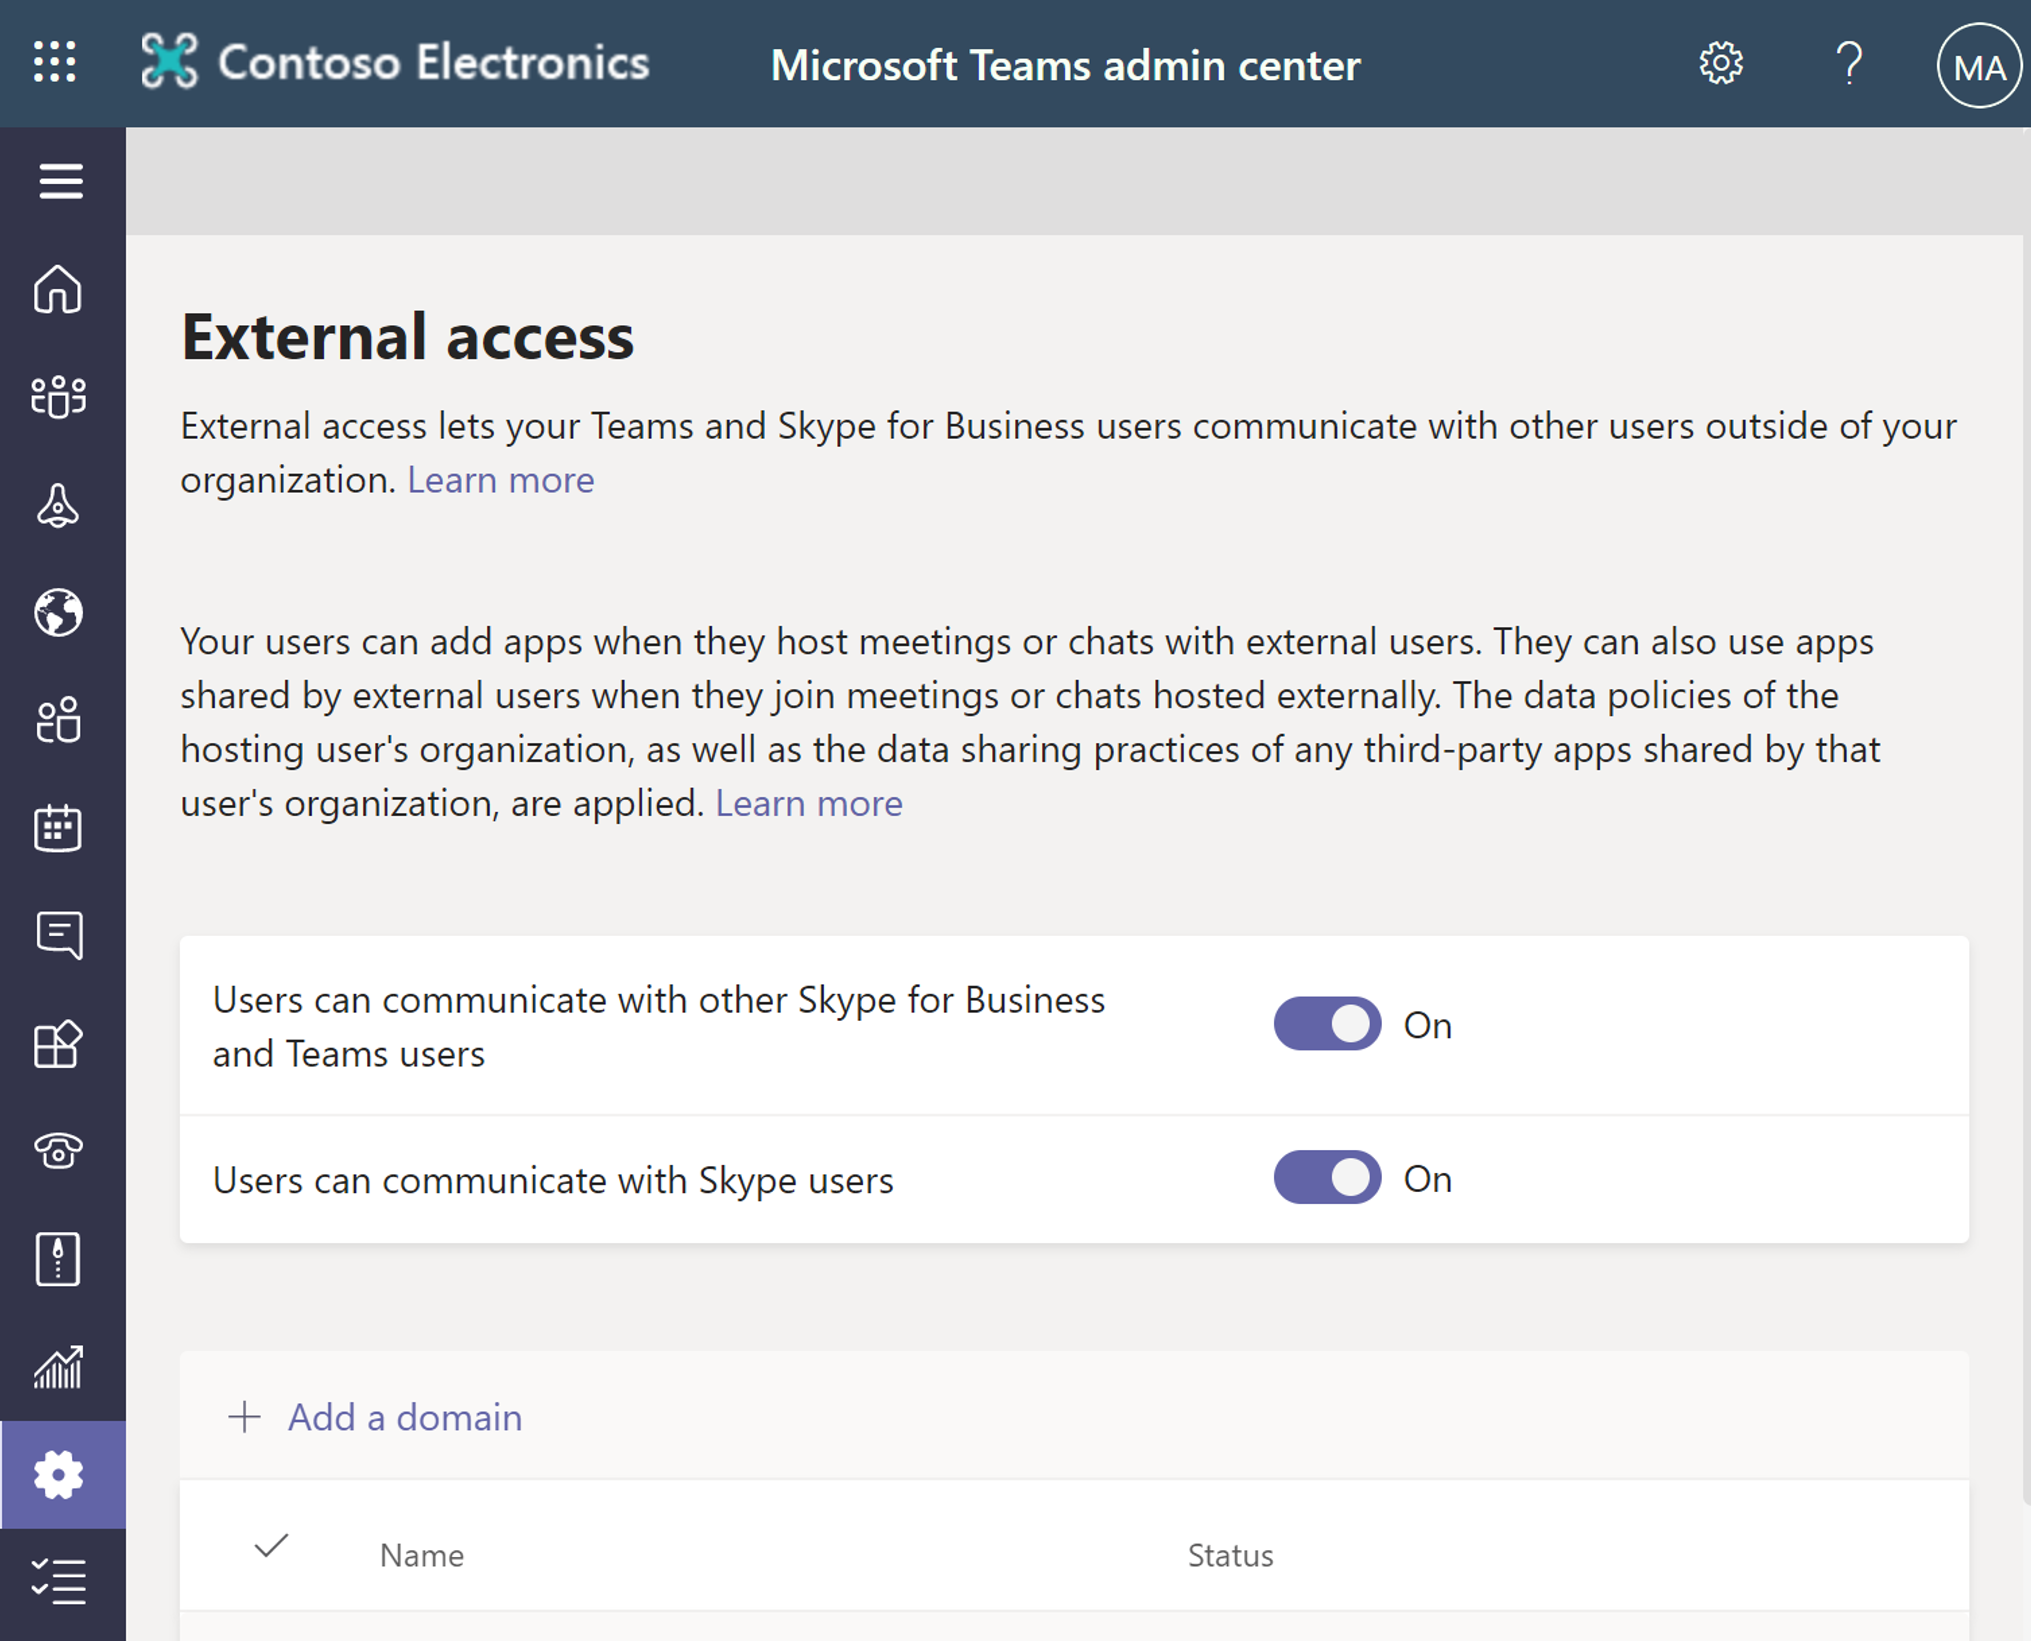
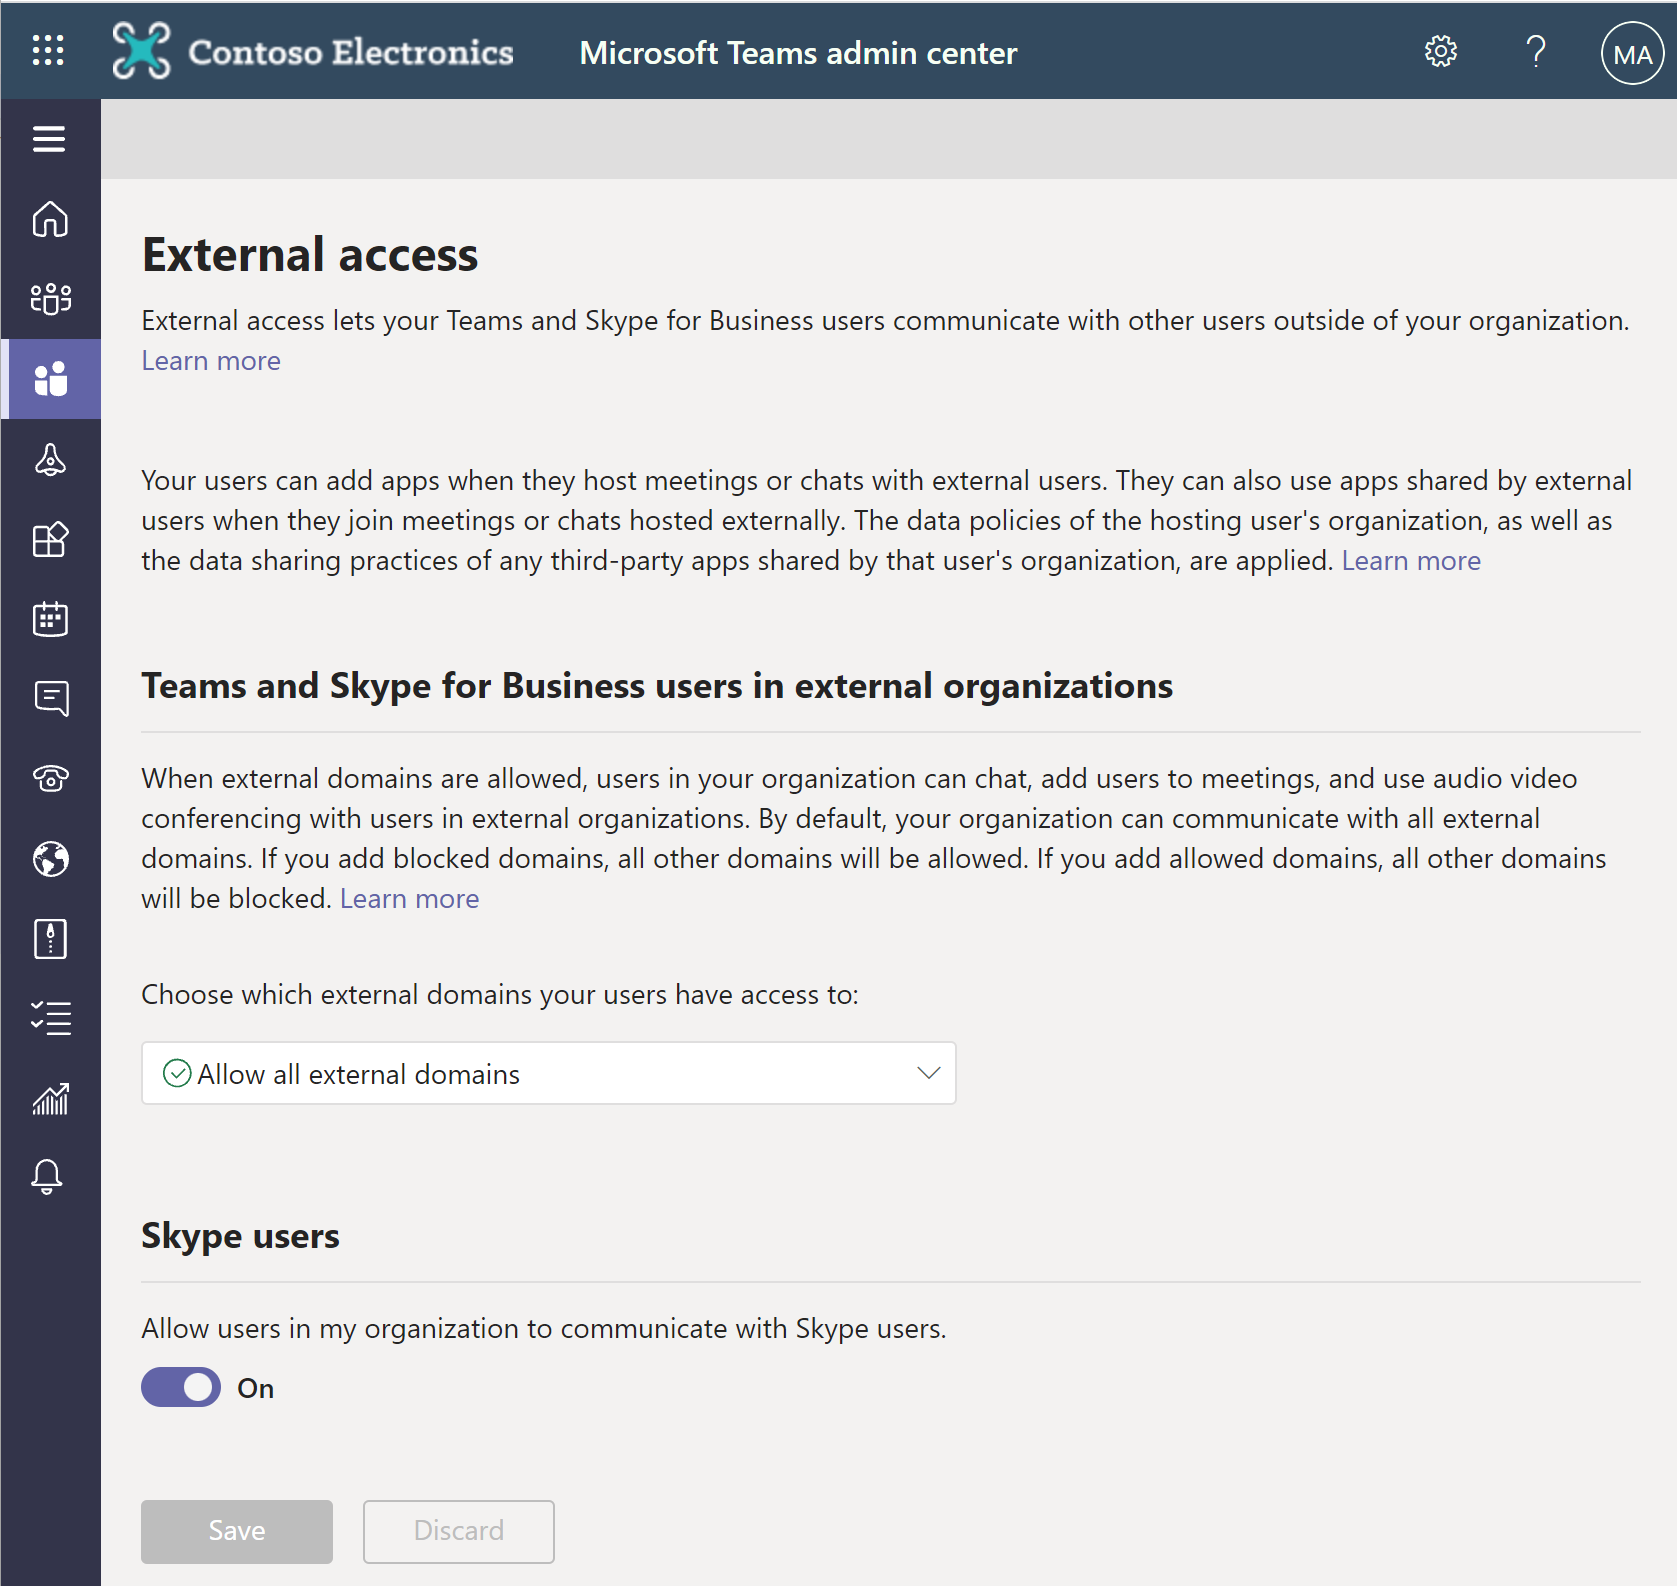
changed files by pdets auto publish service, publishid[32bfe250-0398-41aa-b839-74f31107bfcf] and do [publish].

diff --git a/learn-m365-pr/wwl/manage-access-for-external-users/includes/07-manage-external-access-microsoft-teams.md b/learn-m365-pr/wwl/manage-access-for-external-users/includes/07-manage-external-access-microsoft-teams.md
@@ -1,32 +1,42 @@
 External access is a way for Teams users from an entire external domain to find, call, chat, and set up meetings with you in Teams. You can also use external access to communicate with people from other organizations who are still using Skype for Business and Skype.
 
-Configuring external access for organizations includes three scenarios for setting it up:
+Configuring external access for organizations includes:
 
-- **Open federation**: This setting is the default setting in Teams. The setting lets people in your organization find, call, chat, and set up meetings with people external to your organization in any domain.
+- **Allow all external domains**: This is the default setting in Teams, and it lets people in your organization find, call, chat, and set up meetings with people external to your organization in any domain.
 
-    Users can communicate with all external domains that are running Teams or Skype for Business AND are using open federation OR have added your domain to their allowlist.
+    In this scenario, your users can communicate with all external domains that are running Teams or Skype for Business or are allowing all external domains or have added your domain to their allow list.
 
-- **Allow specific domains**: By adding domains to an **Allow** list, you limit external access to only the allowed domains. Once you set up a list of allowed domains, all other domains will be blocked. To allow specific domains, select **Add a domain**, add the domain name, select **Action to take on this domain**, and then select **Allowed**.
+- **Allow only specific external domains**: By adding domains to an **Allow** list, you limit external access to only the allowed domains. Once you set up a list of allowed domains, all other domains will be blocked. 
 
-- **Block specific domains**: By adding domains to a **Block** list, you can communicate with all external domains *except* the ones you've blocked. To block specific domains, select **Add a domain**, add the domain name, select **Action to take on this domain**, and then select **Blocked**. Once you set up a list of blocked domains, all other domains will be allowed.
+- **Block specific domains** - By adding domains to a **Block** list, you can communicate with all external domains *except* the ones you've blocked. 
+
+- **Block all external domains** - Prevents people in your organization from finding, calling, chatting, and setting up meetings with people external to your organization in any domain.
 
 ## Configure external access
 
-1. In the left navigation pane, go to **Org-wide settings** > **External access**.
+1. In the left navigation pane, go to **Users** > **External access**.
 
-2. Turn on the **Users can communicate with other Skype for Business and Teams users** setting.
+2. Under **Choose which domains your users have access to** section, configure the setting based on business need. 
 
-3. If you want to allow all Teams organizations to communicate with users in your organization, skip to step 5.
+    **To allow specific domains**:
+    
+    1. Select **Allow only specific external domains**.
+    2. Select **Allow domains**.
+    3. In the **Domain** box, type the domain that you want to allow and then select **Done**.
+    4. If you want to allow another domain, select **Add a domain**.
 
-4. If you want to limit the organizations that can communicate with users in your organization, you can either allow all except some domains, or you can allow only specific domains.
+    **To block specific domains**:
+    
+    1. Select **Block only specific external domains**.
+    2. Select **Block domains**.
+    3. In the **Domain** box, type the domain that you want to allow and then select **Done**.
+    4. If you want to block another domain, select **Add a domain**.
 
-    - To allow all except some domains, add the domains you want to block by selecting **Add domain**. In the **Add a domain** pane, type the domain name, select **Blocked**, and then select **Done**.
+3. Turn on the **Allow users in my organization to communicate with Skype users** setting if you want to allow Teams users in your organization chat with and call Skype users. .
 
-    - To limit communications to specific organizations, add those domains to the list with a status of **Allowed**. Once you have added any domain to the allowlist, communications with other organizations will be limited to only those organizations whose domains are in the allowlist.
+4. Select **Save**.
 
-5. Select **Save**.
-
-6. Make sure the admin in the other Teams organization completes these same steps. For example, in their **allowed domains** list, their admin needs to enter the domain for your business if they limit the organizations that can communicate with their users.
+Make sure the admin in the other Teams organization completes these same steps. For example, in their **allowed domains** list, their admin needs to enter the domain for your business if they limit the organizations that can communicate with their users.
 
 After the configuration, you can chat with external users using their email address and adding them as a contact. You can verify if federation is working by sending a chat message to an external user via Teams chat and getting a response.
 

diff --git a/learn-m365-pr/wwl/manage-access-for-external-users/includes/08-manage-guest-access-microsoft-teams.md b/learn-m365-pr/wwl/manage-access-for-external-users/includes/08-manage-guest-access-microsoft-teams.md
@@ -22,9 +22,9 @@ Guests in Teams are covered by the same compliance and auditing protection as th
 
 | Setting | Default | Description |
 |:-----|:-----|:-----|
-|Allow IP video|On|When **On**, guests can use video in their calls and meetings; when **Off**, they can't.|
+|IP video|On|When **On**, guests can use video in their calls and meetings; when **Off**, they can't.|
 |Screen sharing mode|Entire screen|When **Disabled**, guests can't share their screens in Teams. <br/>When set to **Single application**, guests can only share a single application on their screen. <br/>When set to **Entire screen**, guests can choose to share an application or their entire screen.|
-|Allow Meet Now|On|When **On**, guests can use the Meet Now feature in Teams; when **Off**, they can't.|
+|Meet Now|On|When **On**, guests can use the Meet Now feature in Teams; when **Off**, they can't.|
 
 ### Guest messaging
 
@@ -33,11 +33,12 @@ Guests in Teams are covered by the same compliance and auditing protection as th
 |Edit sent messages|On|When **On**, guests can edit messages they previously sent; when **Off**, they can't.|
 |Delete sent messages|On|When **On**, guests can delete messages they previously sent; when **Off**, they can't.|
 |Chat|On|When **On**, guests can use chat in Teams; when **Off**, they can't.|
-|Use Giphy in conversations|On|When **On**, guests can use Giphys in conversations; when **Off**, they can't.|
+|Giphy in conversations|On|When **On**, guests can use Giphys in conversations; when **Off**, they can't.|
 |Giphy content rating|Moderate|When set to **Allow all content**, guests will be able to insert all Giphys in chats, regardless of the content rating. <br/>When set to **Moderate** guests can insert Giphys in chats, but will be moderately restricted from adult content. <br/>When set to **Strict** guests can insert Giphys in chats, but will be restricted from inserting adult content.|
-|Use Memes in conversations|On|When **On**, guests can use memes in conversations; when **Off**, they can't.|
-|User stickers in conversations|On|When **On**, guests can use stickers in conversations; when **Off**, they can't.|
-|Allow immersive reader for viewing messages|On|When **On**, guests can view messages in Immersive Reader; when **Off**, they can't.|
+|Memes in conversations|On|When **On**, guests can use memes in conversations; when **Off**, they can't.|
+|Stickers in conversations|On|When **On**, guests can use stickers in conversations; when **Off**, they can't.|
+|Immersive reader for messages|On|When **On**, guests can view messages in Immersive Reader; when **Off**, they can't.|
+
 
 :::image type="content" source="../media/teams-guest-access-setting.png" alt-text="Guest permissions settings in Teams" :::
 
@@ -47,9 +48,9 @@ Guests in Teams are covered by the same compliance and auditing protection as th
 
 1. Sign in to the [Microsoft Teams admin center](https://admin.teams.microsoft.com/?azure-portal=true).
 
-2. Select **Org-wide settings** > **Guest access**.
+2. Select **Users** > **Guest access**.
 
-3. Set **Allow guest access in Microsoft Teams** to **On**.
+3. Set **Allow guest access in Teams** to **On**.
 
 4. Under **Calling**, **Meeting**, and **Messaging**, select **On** or **Off** for each capability, depending on what you want to allow for guest users.
 
